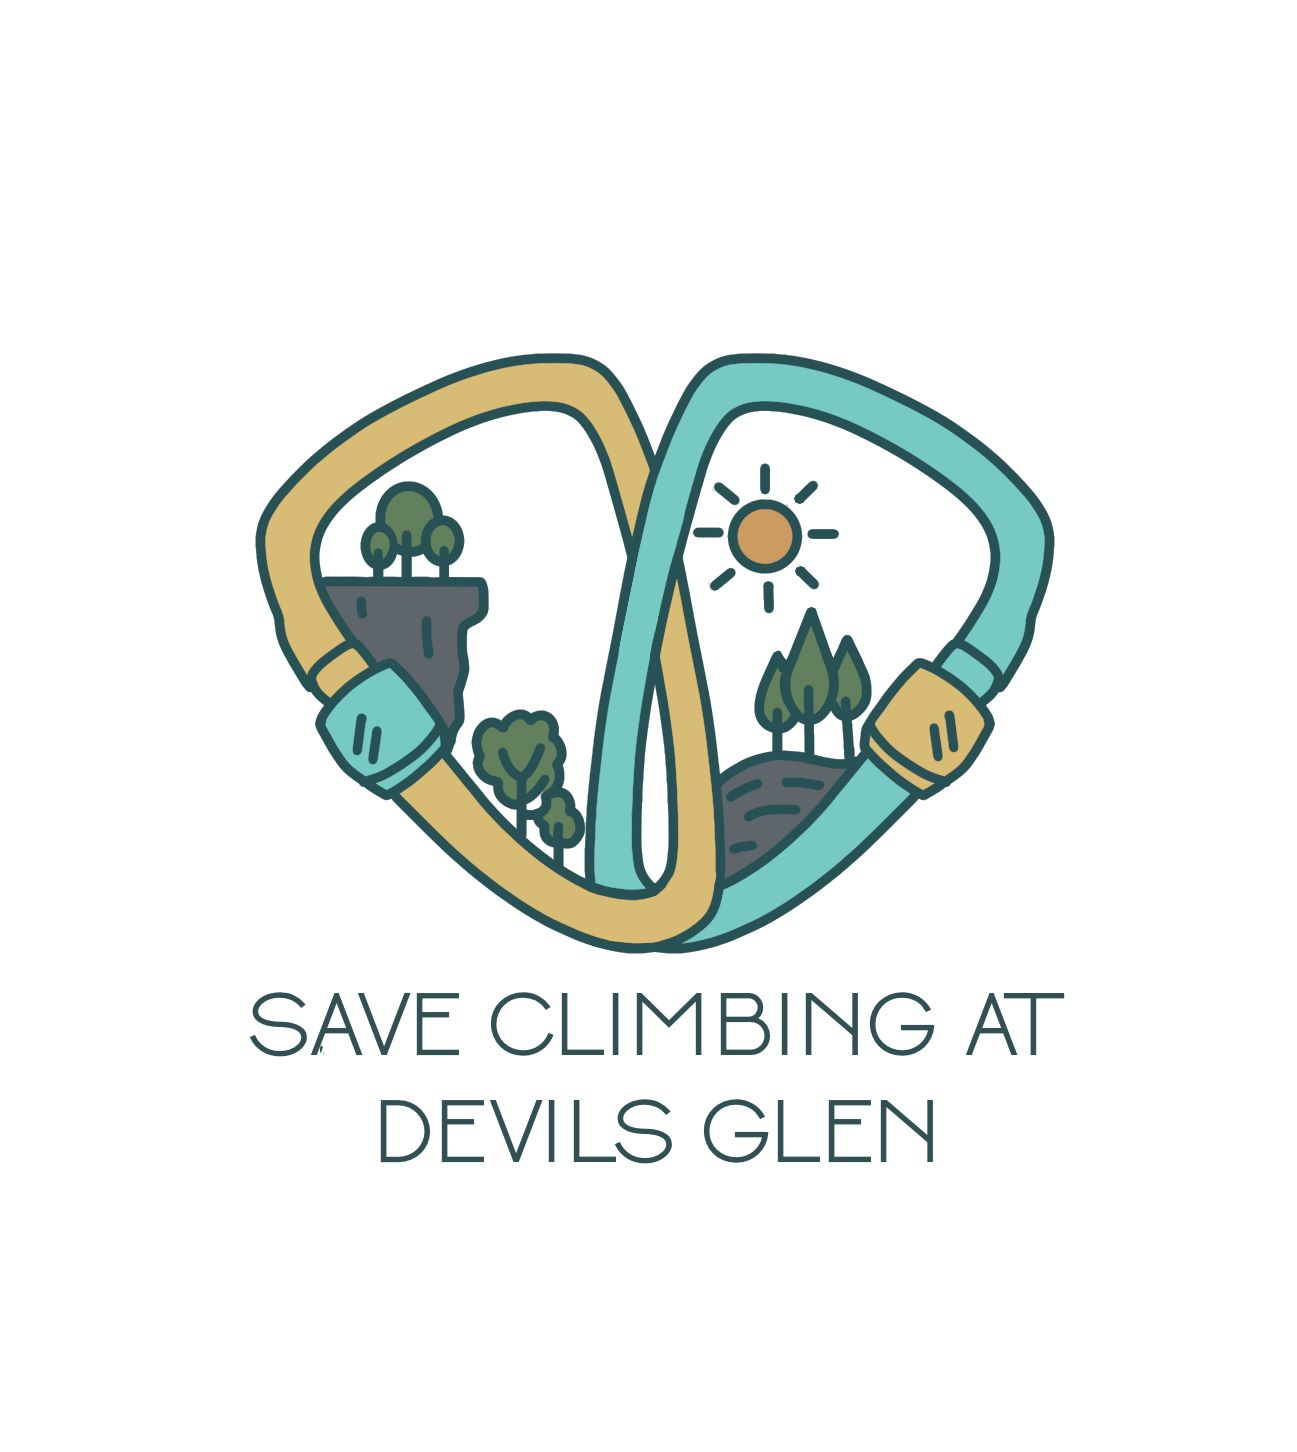
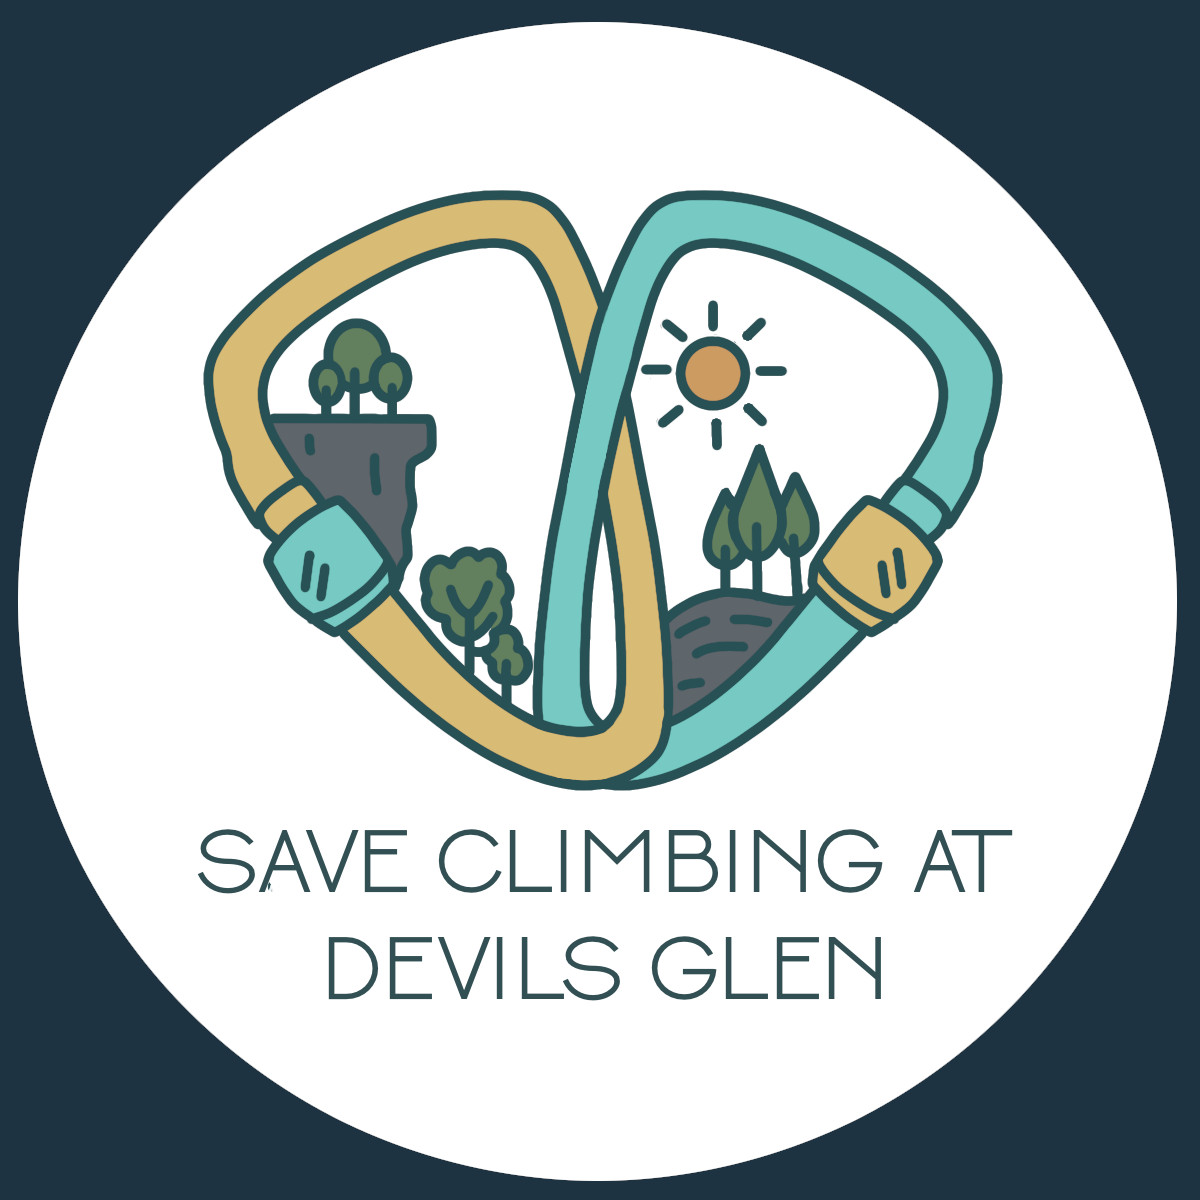
Aesthetic Changes
Overrode to theme colours.  Changed the icon so it's not a square.  Updated the About strings.

diff --git a/static/css/custom.css b/static/css/custom.css
@@ -1,3 +1,14 @@
+:root {
+    --bs-primary-rgb: 29, 51, 65;
+    --bs-secondary-rgb: 196, 138, 44;
+    --bs-success-rgb: 25, 135, 84;
+    --bs-info-rgb: 84, 195, 87;
+    --bs-warning-rgb: 211, 178, 84;
+    --bs-danger-rgb: 211, 178, 84;
+}
+
+
+
 .navbar-toggler {
     display:none;
 }
